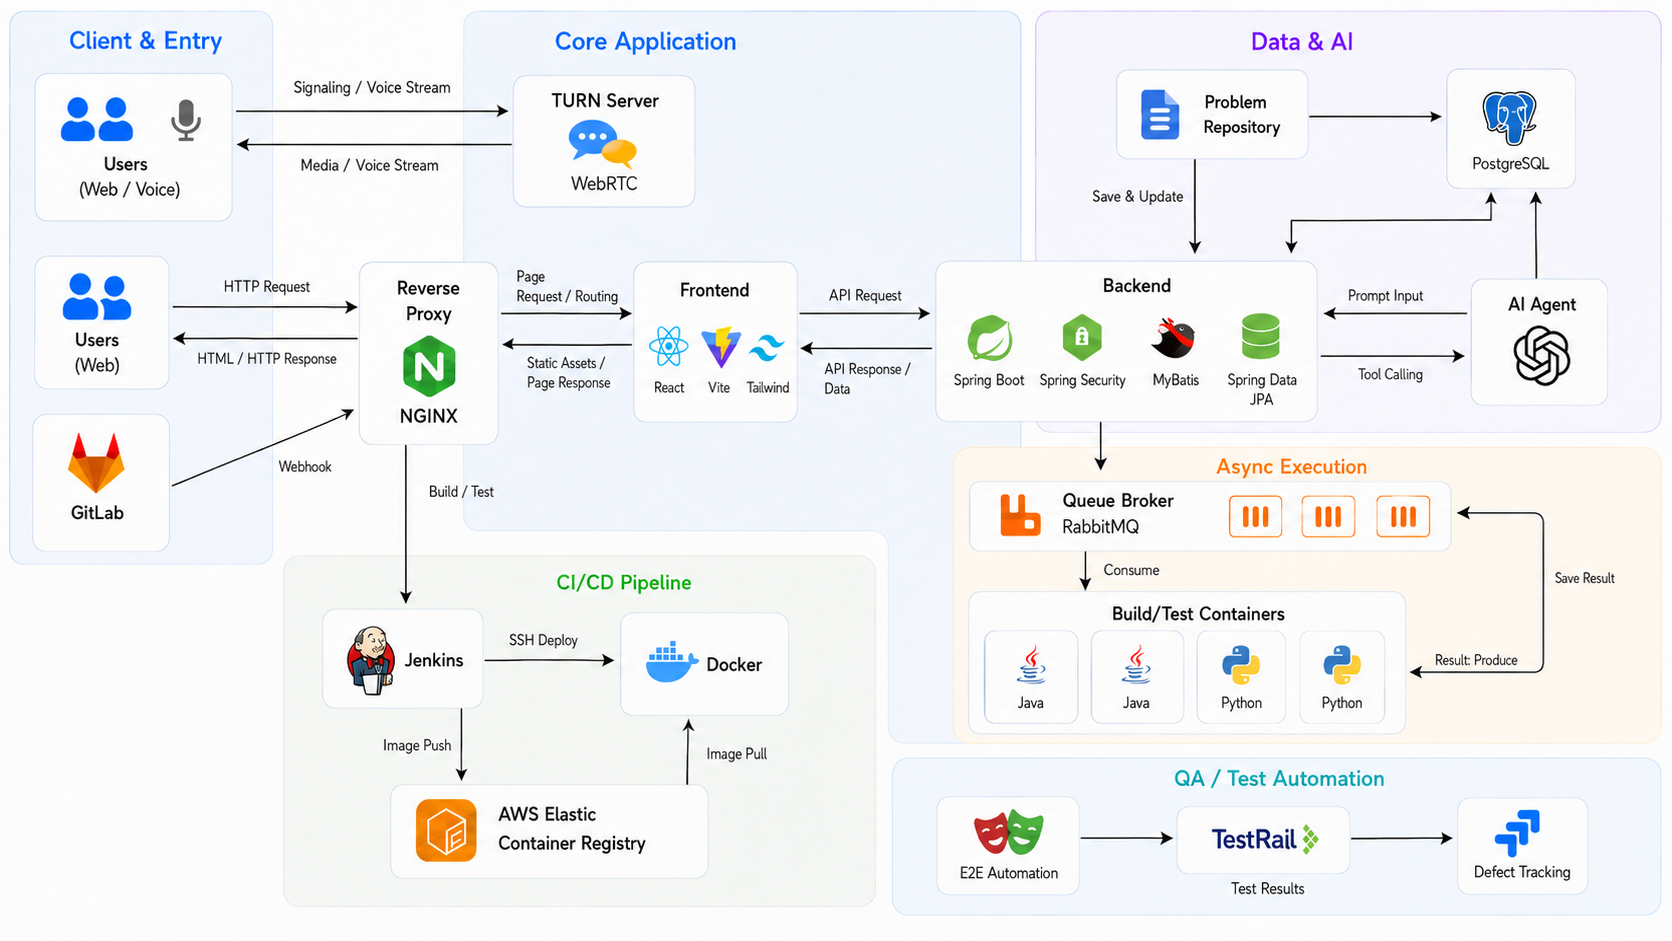
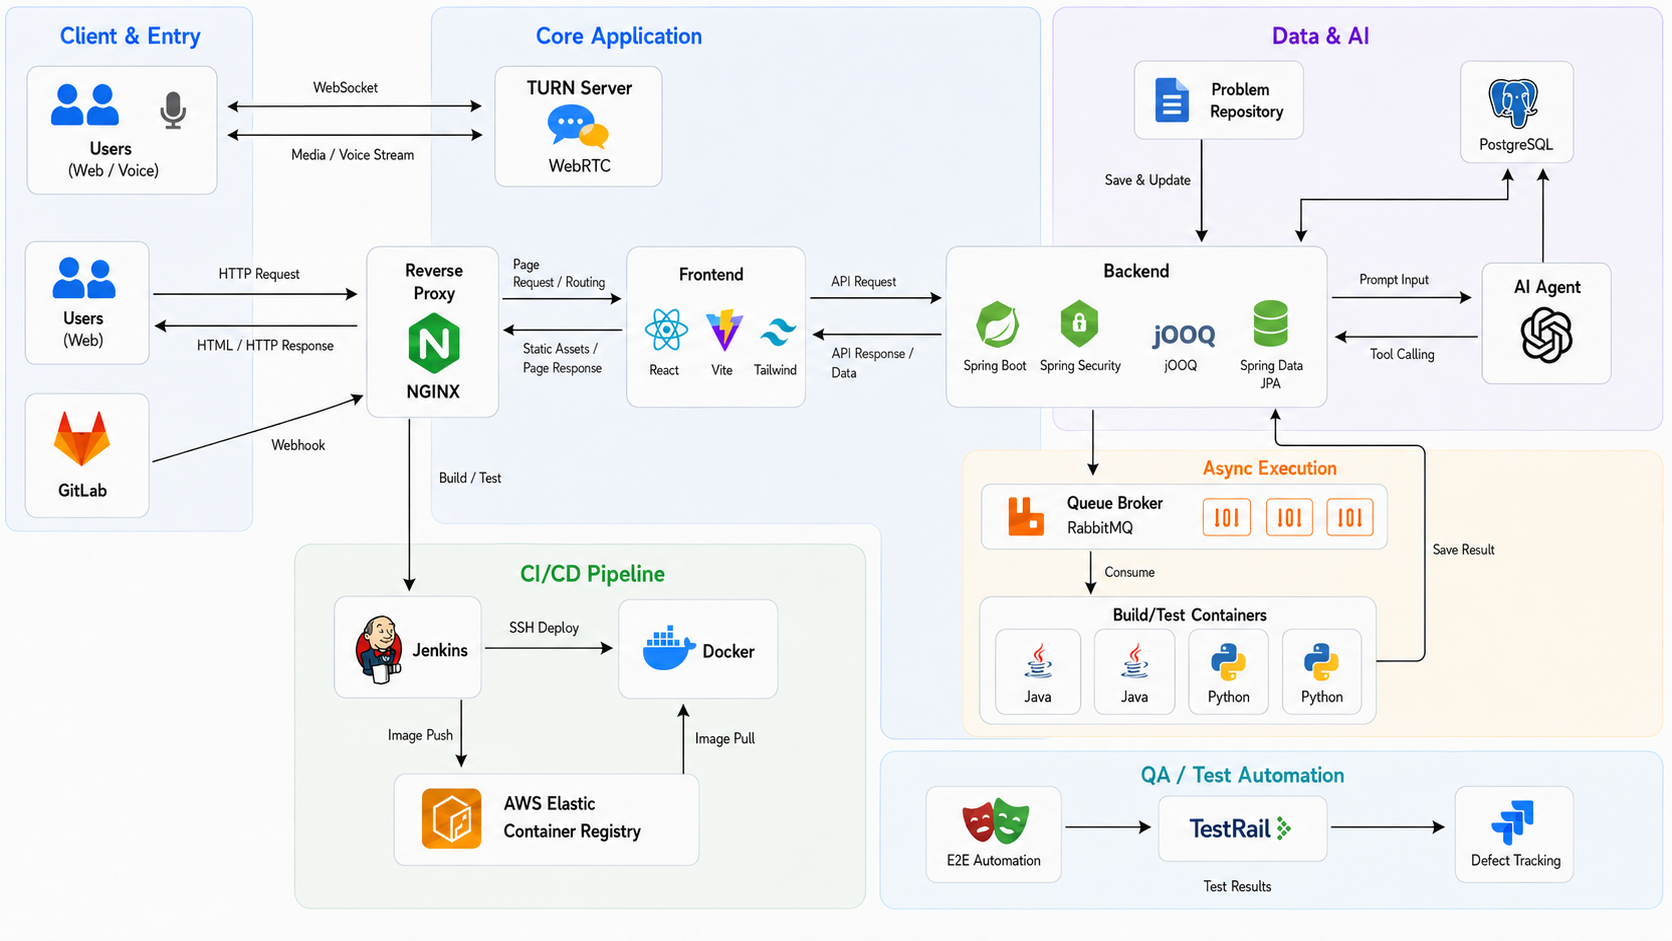
docs: 아키텍처 그림 3차 반영, 각주를 남은 셋으로 줄인다
고쳐진 것: Prompt Input·Tool Calling 방향, MyBatis→jOOQ, 문제 저장소의 DB
직행 화살표 삭제, Save Result가 백엔드를 거치도록.

남은 것은 WebSocket이 TURN Server에 붙어 있는 것, Python 워커 수, 결과가
큐를 거친다는 점이다. CI/CD·QA가 계획이라는 사실은 위 배포 문단이 이미
말하므로 각주에서 뺐다.

diff --git a/README.md b/README.md
@@ -134,7 +134,7 @@ Java·Python 문제와 게임 문제가 있습니다. 앞의 둘은 테스트로
 
 **배포**는 앞단에 Nginx를 두고 컨테이너로 돌립니다. 배포용 compose와 CI 설정은 이 저장소에서 관리하지 않습니다. 그림 아래쪽의 Jenkins·ECR 파이프라인과 QA 자동화(E2E → TestRail → Jira)는 아직 계획이고 구현되어 있지 않습니다.
 
-> **그림과 다른 곳** — 백엔드 상자의 `MyBatis`는 실제로는 **jOOQ**입니다. 결과 큐에서 DB로 가는 화살표(`Save Result`)와 문제 저장소에서 DB로 가는 화살표는 둘 다 백엔드를 거칩니다(8번, 그리고 위 폴링 문단). 시그널링은 `TURN Server`가 아니라 백엔드가 처리하고, coturn은 음성 중계만 맡습니다. Python 워커는 그림에 둘이지만 실제로는 하나입니다. `CI/CD Pipeline`과 `QA / Test Automation` 두 구역은 계획이고 아직 구현되어 있지 않습니다.
+> **그림과 다른 곳** — `WebSocket` 선이 `TURN Server`에 닿아 있지만, 실제로 그 소켓은 백엔드와 연결됩니다. coturn은 음성 중계만 맡습니다. Python 워커는 그림에 둘이지만 실제로는 하나입니다. 채점 결과는 워커가 백엔드를 직접 부르는 것이 아니라 결과 큐를 거치고 백엔드가 그것을 소비합니다.
 
 ## 기술 스택
 
